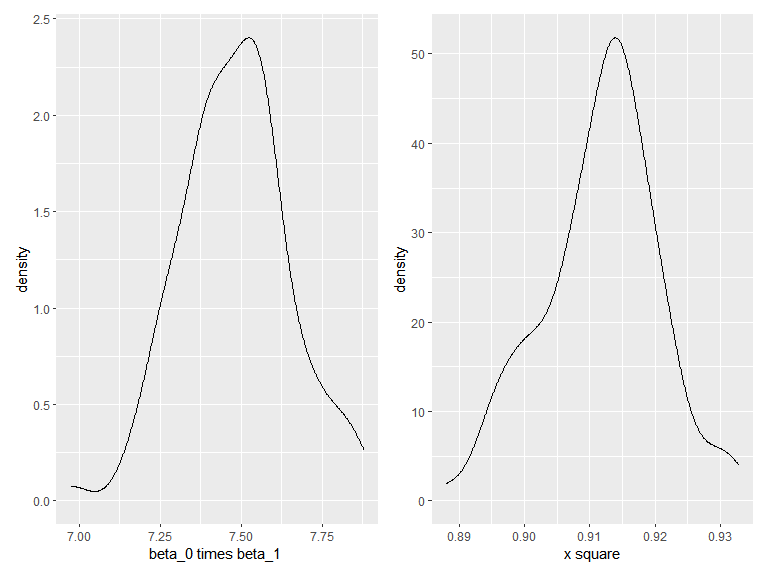
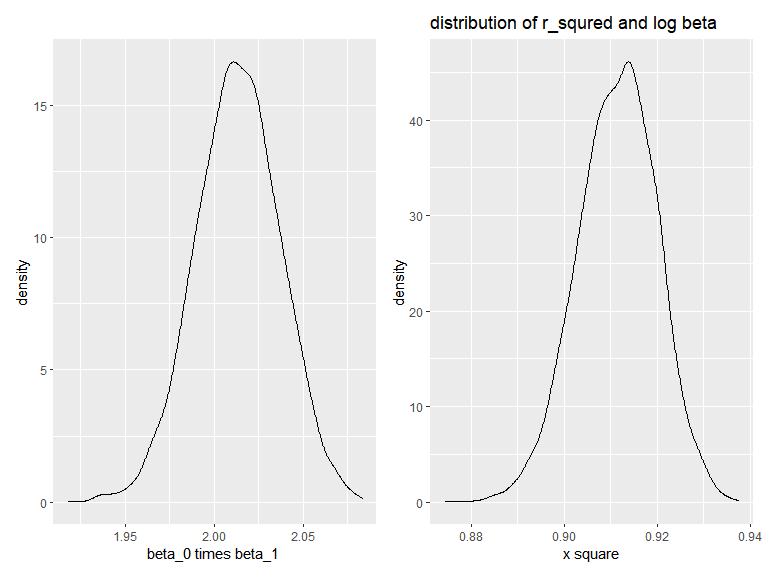
debugging

diff --git a/p8105_hw6_zj2357.md b/p8105_hw6_zj2357.md
@@ -39,52 +39,57 @@ weather_df =
   select(name, id, everything())
 ```
 
+Bootstrap the 5000 samples and calculate the $\hat{r}^2$,
+$log(\beta_0\times\beta_1)$
+
 ``` r
 boot_straps = 
   tibble(
-    strap_num = 1:100,
-    strap_samp = rerun(100, sample_frac(weather_df, replace = TRUE))
+    strap_num = 1:5000,
+    strap_samp = rerun(5000, sample_frac(weather_df, replace = TRUE))
   ) %>%
   mutate(
-    models = map(.x=strap_samp, ~lm(tmax~tmin, data = .x)),
-    beta = map(.x=models,~pull(broom::tidy(.x),estimate)),
-    rsq =  map(.x=models,~pull(broom::glance(.x),r.squared)),
-    beta_sq = map(beta,prod)
+    models = map(.x = strap_samp, ~lm(tmax ~ tmin, data = .x)),
+    beta = map(.x = models, ~pull(broom::tidy(.x), estimate)),
+    rsq =  map(.x = models, ~pull(broom::glance(.x), r.squared)),
+    beta_mult = map(beta, prod)
   ) %>%
-  select(strap_num,rsq,beta_sq) %>%
   mutate(
       rsq = as.numeric(rsq),
-      beta_sq = as.numeric(beta_sq)
-  )
+      beta_log = log(as.numeric(beta_mult))
+  ) %>%
+  select(strap_num,rsq,beta_log) 
 ```
 
-plotting
+plot the distribution of $\hat{r}^2$ and $log(\beta_0\times\beta_1)$.
 
 ``` r
 rsq_plot = 
   boot_straps %>%
-  ggplot(aes(x=rsq)) +
+  ggplot(aes(x = rsq)) +
   geom_density() +
-  xlab("x square")
+  xlab("x square")+
+  labs(title = "distribution of r_squred and log beta")
 
 beta_plot = 
   boot_straps %>%
-  ggplot(aes(x=beta_sq)) +
+  ggplot(aes(x = beta_log)) +
   geom_density() +
   xlab("beta_0 times beta_1 ")
 
-beta_plot + rsq_plot
+beta_plot + rsq_plot 
 ```
 
 <img src="p8105_hw6_zj2357_files/figure-gfm/unnamed-chunk-3-1.png" width="90%" />
 
-CI
+The following code calculates the Confidence Interval (CI) for the two
+values based on normal distribution.
 
 ``` r
 conf_int =
   boot_straps %>%
   pivot_longer(
-    rsq:beta_sq,
+    rsq:beta_log,
     names_to = "variable",
     values_to = "value"
   ) %>%
@@ -93,16 +98,19 @@ conf_int =
     lower_CI = quantile(value,0.025),
     higher_CI = quantile(value,0.975)
   )
+
 conf_int
 ```
 
     ## # A tibble: 2 × 3
     ##   variable lower_CI higher_CI
     ##   <chr>       <dbl>     <dbl>
-    ## 1 beta_sq     7.18      7.82 
-    ## 2 rsq         0.894     0.929
+    ## 1 beta_log    1.97      2.06 
+    ## 2 rsq         0.894     0.927
 
 # Problem 2
+
+Download and clean the homicide dataset.
 
 ``` r
 rm(list = ls())
@@ -122,72 +130,74 @@ homi_df =
   na.omit()
 ```
 
-`Baltimore, MD`
+Do the logistic regression on `Baltimore, MD`.
 
 ``` r
 logi_fit = 
   homi_df %>%
   filter(city_state == "Baltimore, MD") %>%
-  glm(solved~ victim_race+ victim_age+ victim_sex, data = ., family = "binomial")
+  glm(solved~ victim_race + victim_age + victim_sex, data = ., family = "binomial")
 
 logi_fit %>%
   broom::tidy() %>%
   filter(term == "victim_sexMale") %>%
   mutate(
-    conf_low = estimate-1.96*std.error,
-    conf_high = estimate+1.96*std.error
+    odds_ratio = exp(estimate),
+    conf_low = exp(estimate  - 1.96 * std.error),
+    conf_high = exp(estimate + 1.96 * std.error)
   )  %>%
-  select(term,estimate,conf_low,conf_high)
+  select(term, odds_ratio, conf_low, conf_high)
 ```
 
     ## # A tibble: 1 × 4
-    ##   term           estimate conf_low conf_high
-    ##   <chr>             <dbl>    <dbl>     <dbl>
-    ## 1 victim_sexMale   -0.854    -1.13    -0.584
+    ##   term           odds_ratio conf_low conf_high
+    ##   <chr>               <dbl>    <dbl>     <dbl>
+    ## 1 victim_sexMale      0.426    0.325     0.558
 
-other cities
+Iterate over other cities with logistic regression.
 
 ``` r
 logi_fit =
   homi_df %>%
-  nest(data = c(uid,solved, victim_age,victim_race,victim_sex)) %>%
+  nest(data = c(uid, solved, victim_age, victim_race, victim_sex)) %>%
   mutate(
-    model = map(.x = data, ~glm(solved~ victim_race+ victim_age+ victim_sex, data = .x, family = "binomial")),
-    estimate = map(.x=model, ~filter(broom::tidy(.x),term == "victim_sexMale"))
+    model = map(.x = data, ~glm(solved ~ victim_race + victim_age + victim_sex, data = .x, family = "binomial")),
+    estimate = map(.x  = model, ~filter(broom::tidy(.x), term == "victim_sexMale"))
   ) %>%
   unnest(estimate) %>%
   mutate(
-    conf_low = estimate-1.96*std.error,
-    conf_high = estimate+1.96*std.error
+    odds_ratio = exp(estimate),
+    conf_low = exp(estimate  - 1.96 * std.error),
+    conf_high = exp(estimate + 1.96 * std.error)
   )  %>%
-  select(city_state,estimate,conf_low,conf_high)
+  select(city_state, odds_ratio, conf_low, conf_high)
 
 logi_fit
 ```
 
     ## # A tibble: 47 × 4
-    ##    city_state        estimate conf_low conf_high
+    ##    city_state      odds_ratio conf_low conf_high
     ##    <chr>                <dbl>    <dbl>     <dbl>
-    ##  1 Albuquerque, NM  0.570       -0.186    1.32  
-    ##  2 Atlanta, GA      0.0000771   -0.380    0.381 
-    ##  3 Baltimore, MD   -0.854       -1.13    -0.584 
-    ##  4 Baton Rouge, LA -0.964       -1.56    -0.363 
-    ##  5 Birmingham, AL  -0.139       -0.555    0.276 
-    ##  6 Boston, MA      -0.395       -1.03     0.244 
-    ##  7 Buffalo, NY     -0.653       -1.24    -0.0670
-    ##  8 Charlotte, NC   -0.123       -0.585    0.338 
-    ##  9 Chicago, IL     -0.891       -1.09    -0.692 
-    ## 10 Cincinnati, OH  -0.917       -1.44    -0.390 
+    ##  1 Albuquerque, NM      1.77     0.831     3.76 
+    ##  2 Atlanta, GA          1.00     0.684     1.46 
+    ##  3 Baltimore, MD        0.426    0.325     0.558
+    ##  4 Baton Rouge, LA      0.381    0.209     0.695
+    ##  5 Birmingham, AL       0.870    0.574     1.32 
+    ##  6 Boston, MA           0.674    0.356     1.28 
+    ##  7 Buffalo, NY          0.521    0.290     0.935
+    ##  8 Charlotte, NC        0.884    0.557     1.40 
+    ##  9 Chicago, IL          0.410    0.336     0.501
+    ## 10 Cincinnati, OH       0.400    0.236     0.677
     ## # … with 37 more rows
 
-plotting
+Finally, plot the odds ratio between cities.
 
 ``` r
 logi_fit %>%
   mutate(
-    city_state = fct_reorder(city_state, -estimate)
+    city_state = fct_reorder(city_state, -odds_ratio)
   ) %>%
-  ggplot(aes(x = estimate, y = city_state)) +
+  ggplot(aes(x = odds_ratio, y = city_state)) +
   geom_point() +
   geom_errorbar(aes(xmin = conf_low, xmax = conf_high)) +
   labs(title = "Odds ratio of solved cases between male and female victims")
